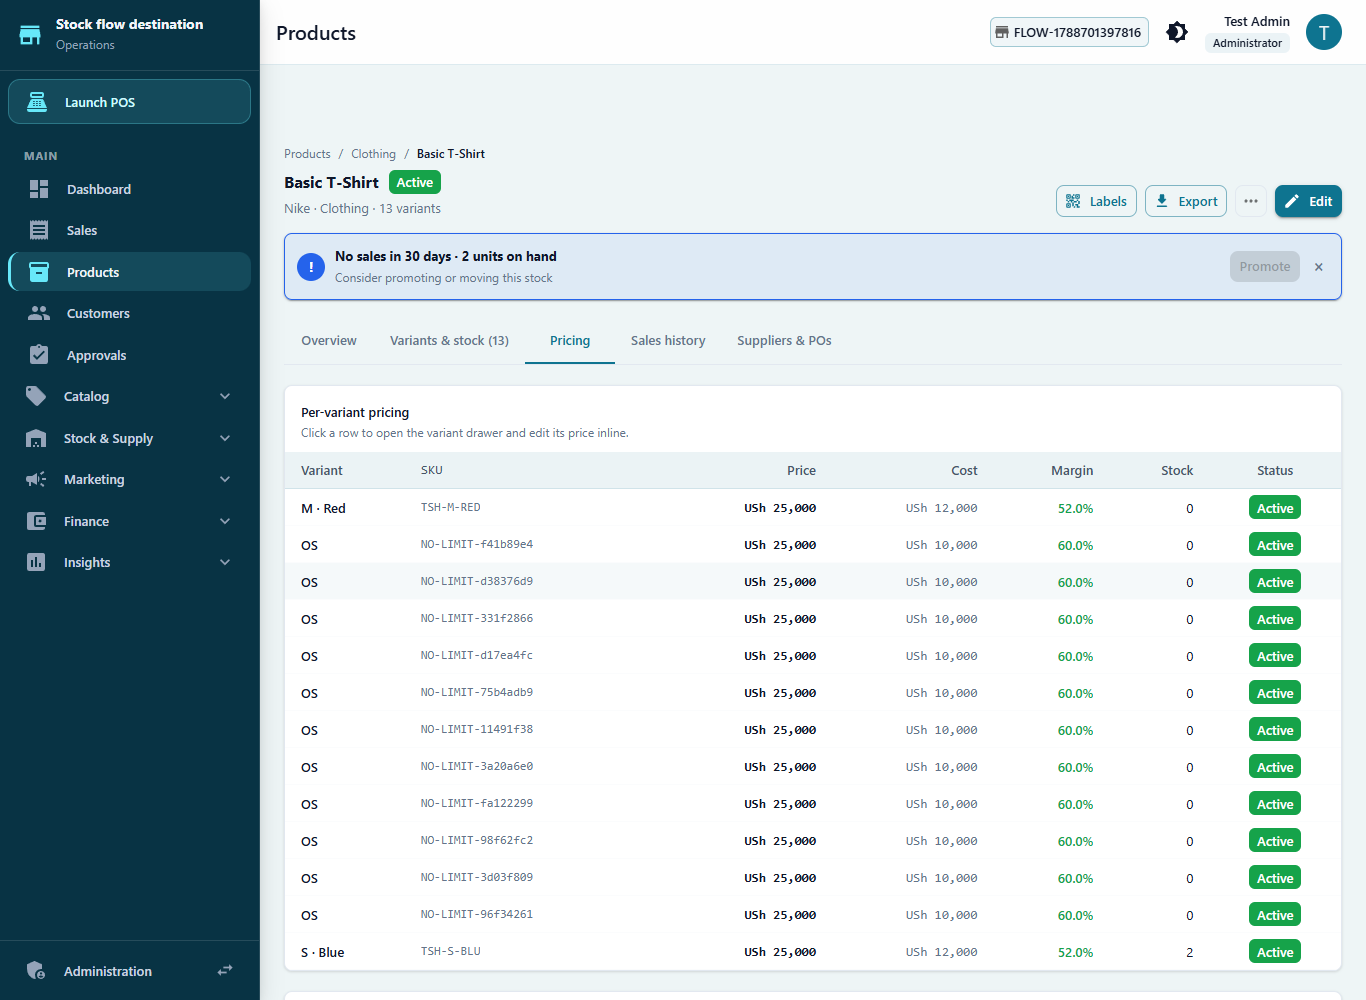
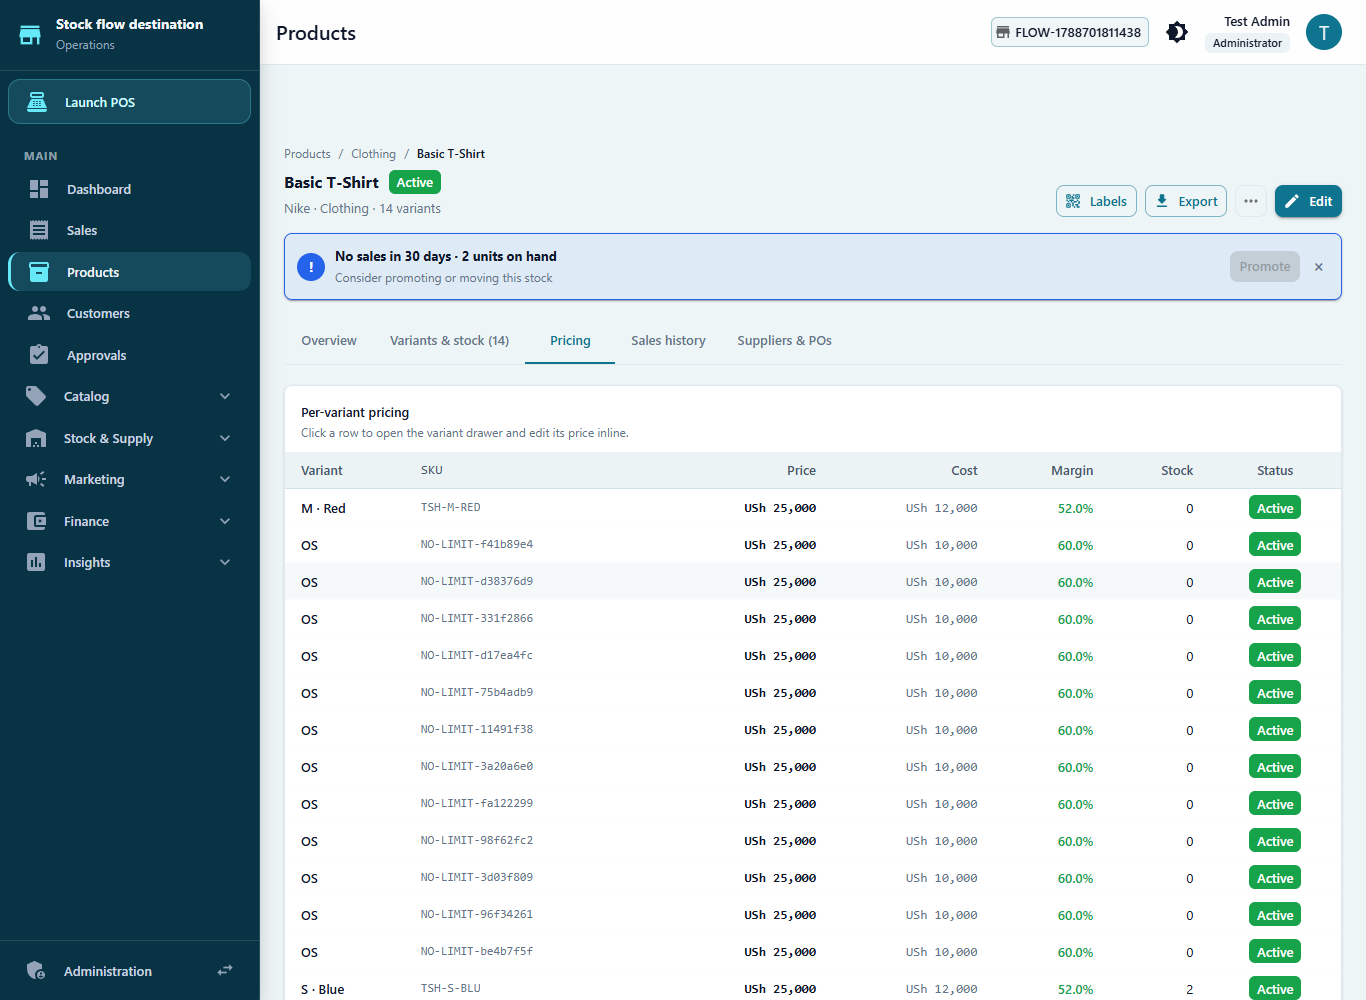
Prepare Railway Node runtime and complete cross-app verification

Changed region(s): [[0.2152, 0.93, 0.9839, 1.0], [0.7379, 0.031, 0.8302, 0.062]]

diff --git a/app/vite.config.ts b/app/vite.config.ts
@@ -34,6 +34,15 @@ const localBindingConfig = {
 };
 
 export default defineConfig(async () => {
+  // Railway runs the self-contained Node server; local previews retain their
+  // existing Workers adapter so both targets share the same application code.
+  if (process.env.KLINE_RUNTIME === 'node') {
+    return {
+      css: { postcss: { plugins: [tailwindcss()] } },
+      plugins: [vinext()],
+    };
+  }
+
   // Keep Wrangler and Miniflare state project-local. These are non-secret tool
   // settings; application environment belongs in ignored `.env*` files.
   process.env.WRANGLER_WRITE_LOGS ??= 'false';

diff --git a/app/next.config.ts b/app/next.config.ts
@@ -1,5 +1,7 @@
 import type { NextConfig } from 'next';
 
-const nextConfig: NextConfig = {};
+const nextConfig: NextConfig = {
+  output: process.env.KLINE_RUNTIME === 'node' ? 'standalone' : undefined,
+};
 
 export default nextConfig;

diff --git a/COMPLETION_CHECKLIST.md b/COMPLETION_CHECKLIST.md
@@ -4,7 +4,7 @@ Updated: 6 September 2026. This is our working source of truth. Update it after 
 
 **Checked means implemented and verified locally unless explicitly labelled staging/production.** An implemented feature can still await commit, release or staff acceptance. Optional features do not silently become launch requirements.
 
-**Release candidate: package 0.16.0. Core workflows and administration are implemented. 249 clean committed POS backend tests, 22 POS frontend tests, 24 workspace checks and eight accessibility views pass; audits report zero known vulnerabilities. Latest isolated browser run: 20/21 passed; two-app repeat awaits the stopped POS preview on port 3000. Local backup/restore and all 108 migration checks pass. Staging, real devices/provider/bucket and staff acceptance remain pending.**
+**Release candidate: package 0.16.0. Core workflows and administration are implemented. 249 clean committed POS backend tests, 22 POS frontend tests, 24 workspace checks and eight accessibility views pass; audits report zero known vulnerabilities. All 21 browser cases pass, including the targeted two-app repeat after preview restart. Local backup/restore and all 108 migration checks pass. Staging, real devices/provider/bucket and staff acceptance remain pending.**
 
 ## A. Purpose and design
 
@@ -87,7 +87,7 @@ Updated: 6 September 2026. This is our working source of truth. Update it after 
 - [x] T5 Baseline: 224 POS tests/24 suites, 24 workspace checks, four pricing-example checks, nine browser checks. See `verification/packaged-workspace.json`.
 - [x] T6 Passing recorded TypeScript, lint/build, syntax and Railway source checks.
 - [x] T7 Feature tests and package verification extended through 0.16.0; all seven installed files match source.
-- [ ] T8 249 clean committed backend tests/26 suites, 22 POS frontend tests/5 suites, 24 workspace checks, zero dependency advisories, eight clean accessibility scans and 1,000-lot benchmark pass. Latest isolated browser run passes 20/21; repeat cross-app navigation after the owner restarts POS preview (automation restart was policy-blocked). See `verification/release-validation.json`.
+- [x] T8 249 clean committed backend tests/26 suites, 22 POS frontend tests/5 suites, 24 workspace checks, zero dependency advisories, eight clean accessibility scans and 1,000-lot benchmark pass. All 21 browser cases pass after targeted navigation and missing-size restock repeats. See `verification/release-validation.json`.
 - [x] T9 Local consistent backup restored into a new database: 13 table counts match; original/restored ledgers both have 108 migrations and no pending/checksum issues. Disabled-mount rollback and image recovery pass existing integration tests. Production backup, object storage, monitoring and rollback acceptance remain G5/G7/G8. See `docs/operations.md`.
 
 ## G. Source control and release
@@ -120,3 +120,5 @@ Complete required A–G tasks, decide O items explicitly and obtain owner accept
 | 2026-09-06 | User prioritized the explicit AI fill workflow; R11a–c implemented in package 0.4.0. | 21 focused POS tests, four AI browser checks and 24 workspace checks. Evidence: `verification/ai-fill.json`. Real-provider R11d remains open; next I1. |
 
 | 2026-09-06 | R13?R16, administration, session recovery and local accessibility/operations completed through package 0.16.0; source pushed and POS draft PR opened. | Final POS preview repeat awaits restart; staging target remains undecided. Clean committed-tree verification passed: 249 tests/26 suites at POS 402133c. |
+
+| 2026-09-06 | T8 completed: cross-app navigation and missing-size restock pass after owner restart. New private Railway project `kline-catalog-staging` created with separate PostgreSQL and image bucket. | G4/G5 in progress: Node runtime and staging services. |

diff --git a/verification/pos-pr-body.md b/verification/pos-pr-body.md
@@ -2,6 +2,6 @@ The catalog workspace separates new-stock Receiving, shared Pricing with brand/s
 
 The normal POS server mounts the locked @kline/pos-workspace 0.16.0 package behind CATALOG_WORKSPACE_ENABLED. Migrations 106–108 add deliveries, photo-transfer tasks and cancellation records. The frontend handoff preserves product/branch context through login without credentials in URLs. Administration, item history and AI recovery retain permissions, stale-write protection and audit history.
 
-Validation: the exact committed POS tree at 402133c passed a clean npm ci and all 249 backend tests across 26 suites. POS frontend passed 22 tests with one Vitest worker. Unrelated local AI edits are excluded from the branch and the clean release test. Catalog checks include 24 HTTP/database cases, eight clean axe views, a 1,000-lot/3,000-size workload, and a local database backup/restore with 13 matching table counts and 108 migrations. Latest isolated browser run passes 20/21; the stopped POS frontend prevents the final navigation repeat (the earlier same-version navigation check passed).
+Validation: the exact committed POS tree at 402133c passed a clean npm ci and all 249 backend tests across 26 suites. POS frontend passed 22 tests with one Vitest worker. Unrelated local AI edits are excluded from the branch and the clean release test. Catalog checks include 24 HTTP/database cases, eight clean axe views, a 1,000-lot/3,000-size workload, and a local database backup/restore with 13 matching table counts and 108 migrations. All 21 browser cases now pass: targeted cross-app navigation and missing-size restock repeats passed after the owner restarted POS. Separate Railway staging setup is underway.
 
 This is a draft release candidate. Staging needs to be selected or created; physical-device, real provider/private bucket and staff acceptance remain open. Production is unchanged, and this PR must not be merged as a substitute for those gates. The companion app and live checklist are at https://github.com/kiwanukaphil-oss/Kline-image-catalog.

diff --git a/verification/README.md b/verification/README.md
@@ -17,7 +17,7 @@ Screenshots prefixed `receiving-`, `pricing-`, `receipt-`, `stock-` record the i
 
 ## Final local release evidence
 
-`release-validation.json` is the current rollup. `browser-regression.json` retains the latest isolated 20/21 result: the POS preview had stopped for the navigation case. Its earlier same-version run passed; a final repeat awaits the owner restarting port 3000. `accessibility.json` has eight zero-violation axe scans. `backup-restore.json` and `migration-recovery.json` record the local restore exercise. Dependency audits found no known vulnerabilities. `large-delivery.json` records the refreshed 1,000-lot benchmark.
+`release-validation.json` is the current rollup. `browser-regression.json` retains the latest isolated 20/21 result: the POS preview had stopped for the navigation case. The owner restarted port 3000 and targeted navigation and missing-size restock repeats both passed on 2026-09-06, completing all 21 cases; see the individual JSON evidence. `accessibility.json` has eight zero-violation axe scans. `backup-restore.json` and `migration-recovery.json` record the local restore exercise. Dependency audits found no known vulnerabilities. `large-delivery.json` records the refreshed 1,000-lot benchmark.
 
 <!-- Removal candidate: app/verification contains duplicate stock screenshots from an earlier runner working-directory mistake. Authoritative latest artifacts are in this root verification directory. Retained until review. -->
 
